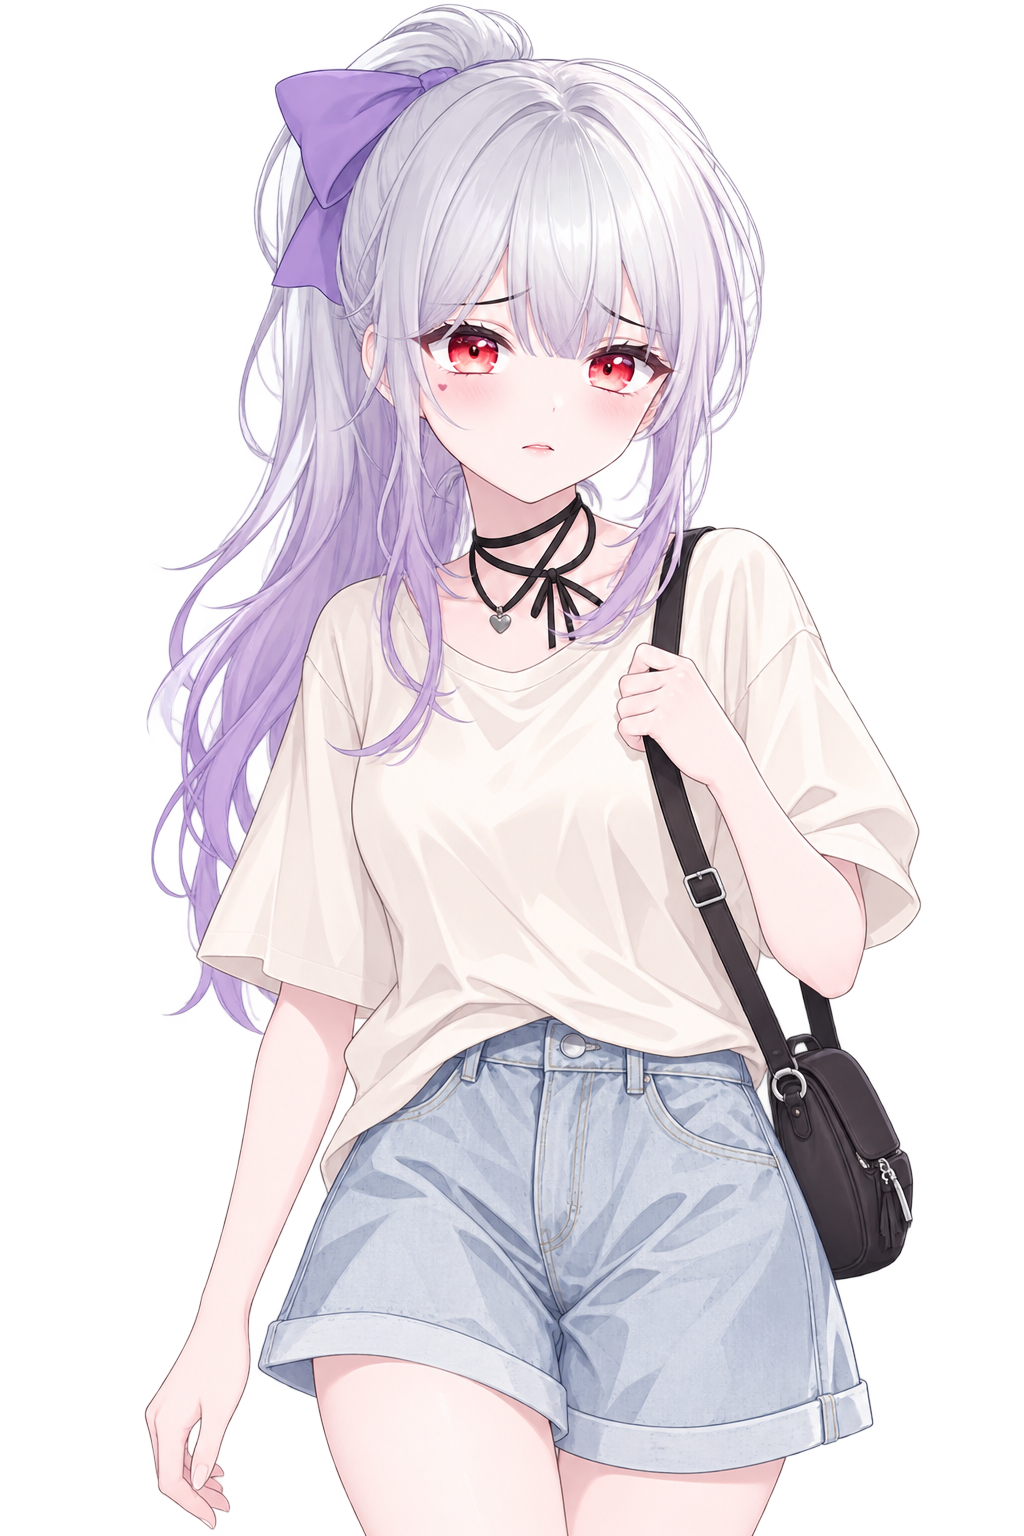
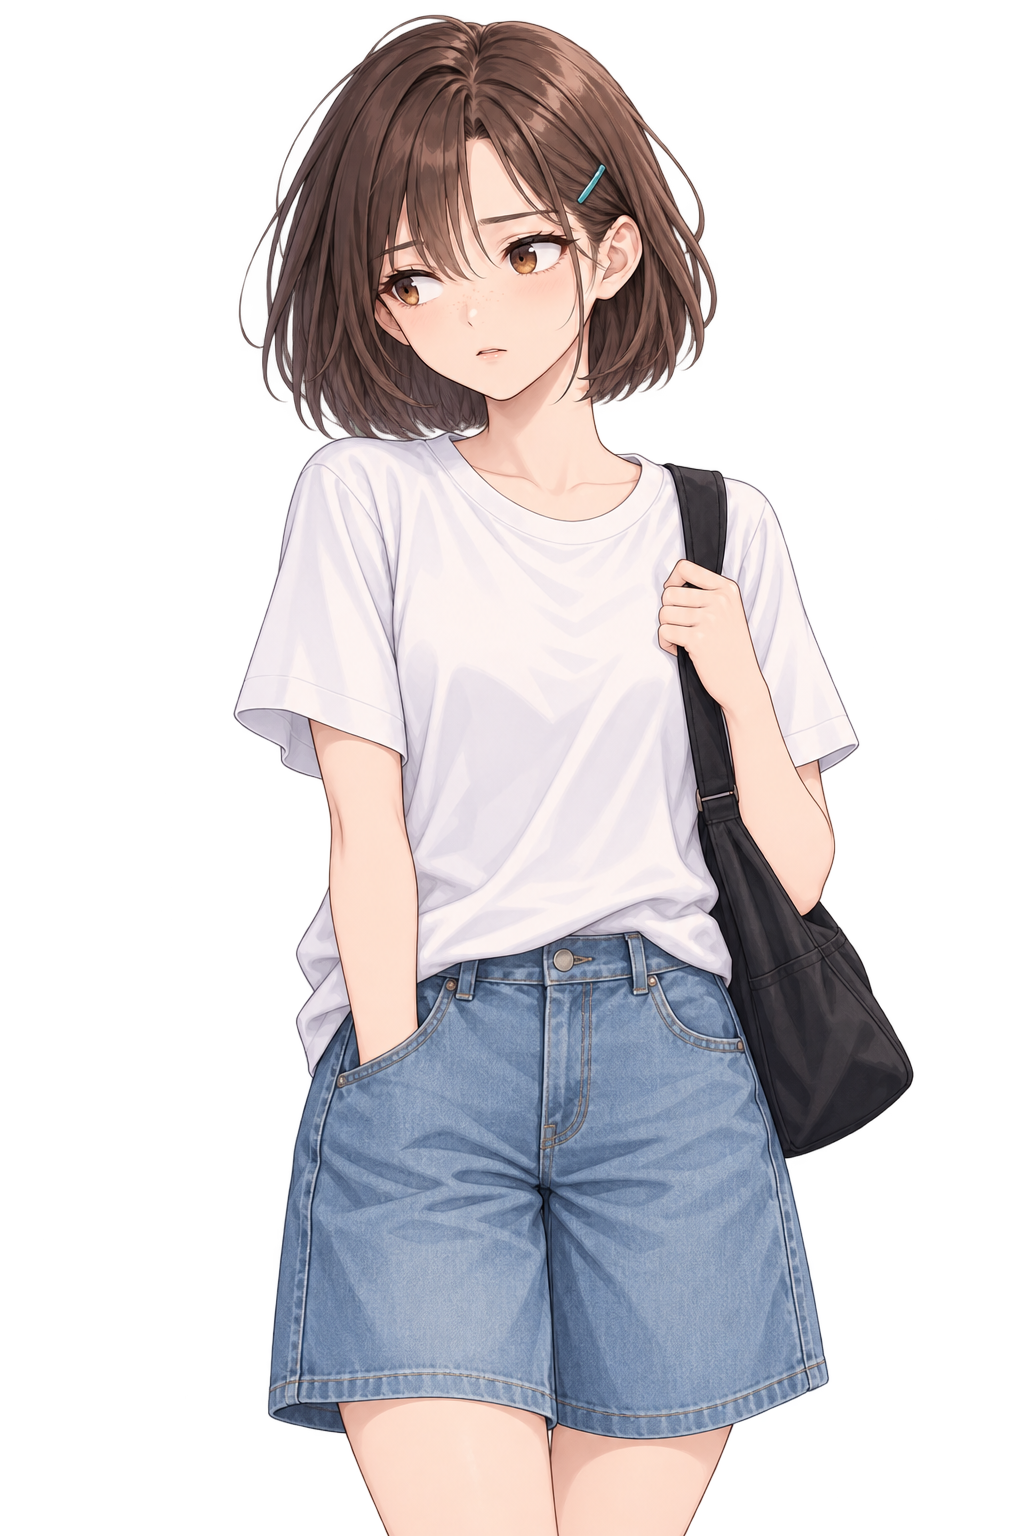
CH12 자유 의상 스탠딩 일러스트 교체

diff --git a/docs/illustration-replacement-prompts.md b/docs/illustration-replacement-prompts.md
@@ -91,6 +91,8 @@ CG는 공통 CG 블록과 파일별 장면 프롬프트를 이어 붙인다. 무
 
 의상 블록: 넉넉한 흰색 반소매 티셔츠, 무릎 길이의 연한 청색 데님 반바지, 검정 캔버스 숄더백. 노출이나 몸매 강조 없이 편안한 주말 외출복.
 
+공통 구도: 2:3 세로 캔버스에서 머리 위부터 무릎 바로 위까지 보이는 무릎 위 구도. 발과 종아리는 프레임에 넣지 않고 인물 크기를 여섯 장 모두 통일한다.
+
 | 파일 | 개별 표정·포즈 프롬프트 |
 |---|---|
 | [C1-1.png](../assets/standing/C1-1.png) | 편안한 기본 표정, 숄더백 끈을 한 손으로 잡고 가볍게 서 있다. |
@@ -258,4 +260,4 @@ CG는 공통 CG 블록과 파일별 장면 프롬프트를 이어 붙인다. 무
 - 이미지 모델이 만든 문자·로고·워터마크는 제거하고, 필요한 문구는 별도로 편집한다.
 - 기존 그림을 참조 입력으로 넣어 외형이나 구도를 따라 만들지 않는다. 결과가 새 공통 캐릭터 기준과 다르면 해당 파일을 다시 생성한다.
 
-이 문서는 교체 대상의 프롬프트와 파일 대응표다. S·W·G·A 스탠딩 세트의 생성과 파일 교체를 완료했으며, 나머지 이미지는 작업별로 진행한다.
+이 문서는 교체 대상의 프롬프트와 파일 대응표다. S·W·G·A·C1 스탠딩 세트의 생성과 파일 교체를 완료했으며, 나머지 이미지는 작업별로 진행한다.
